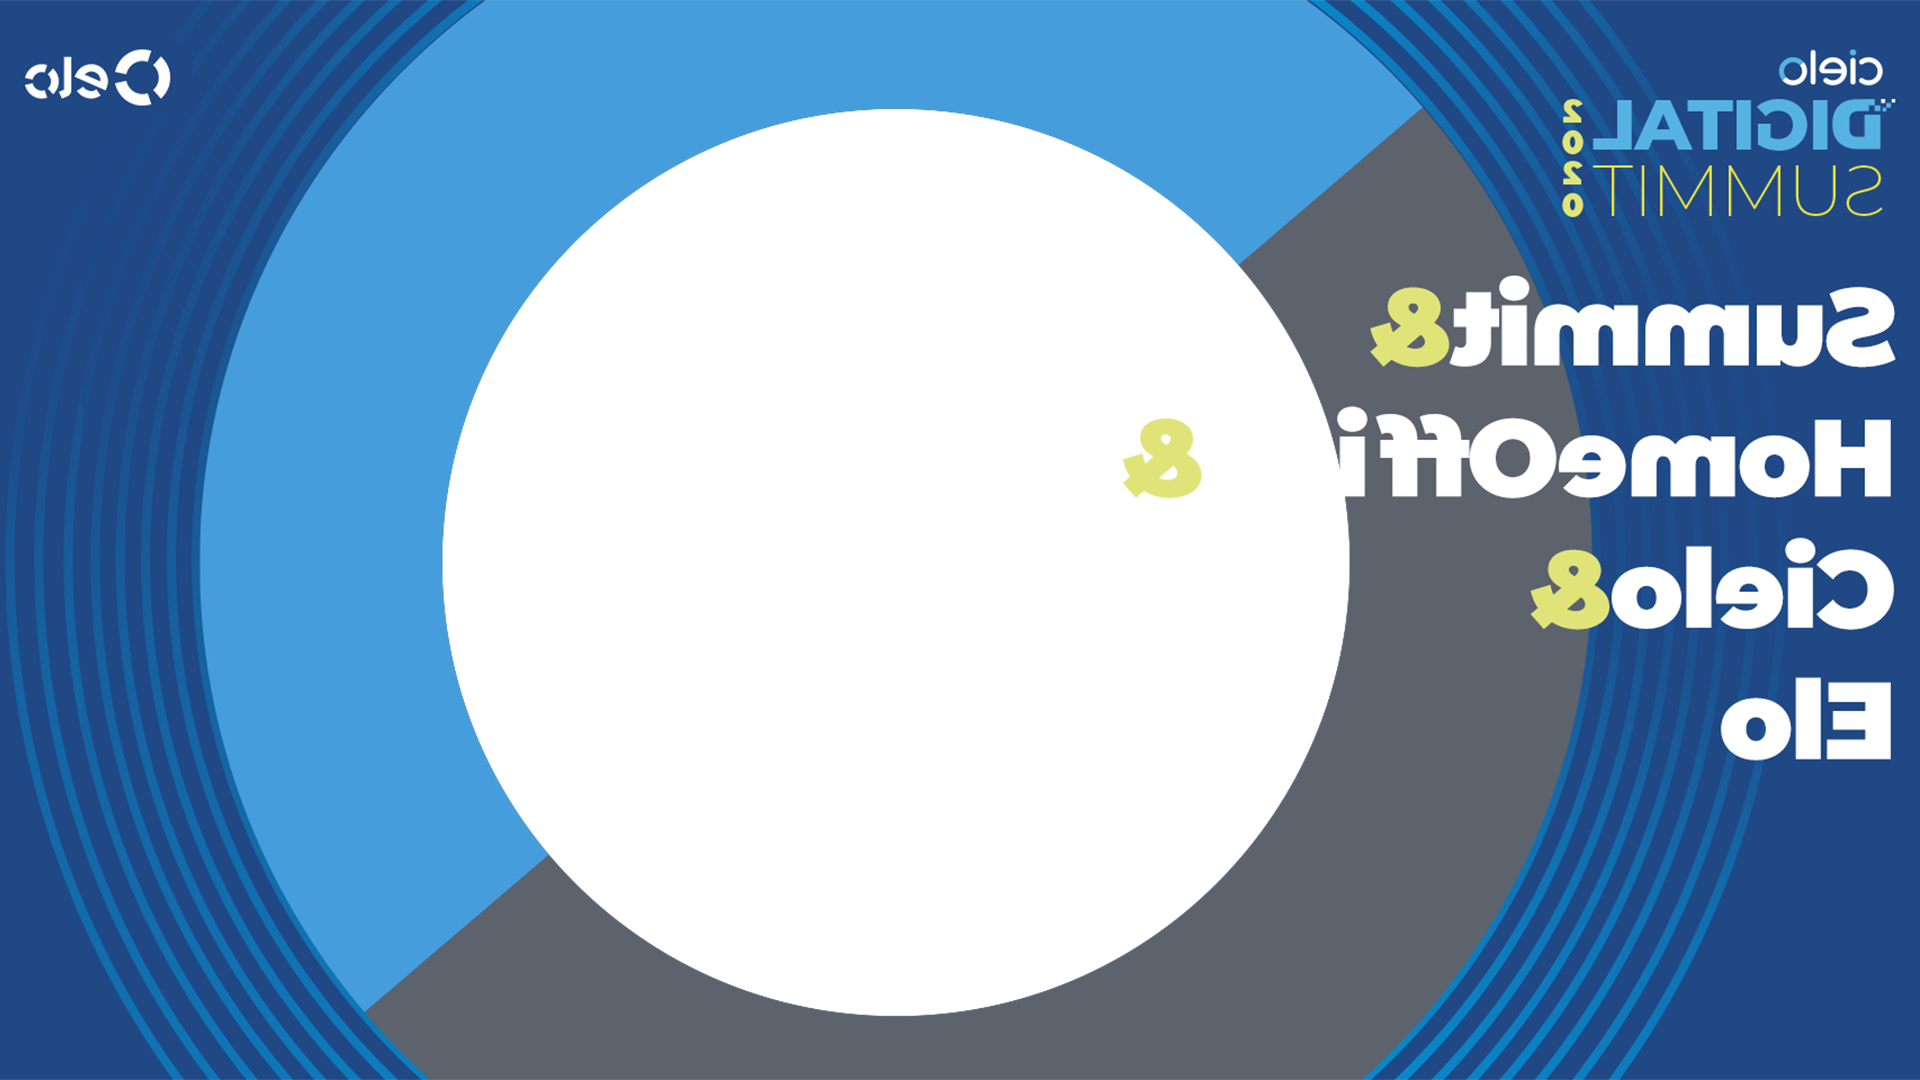
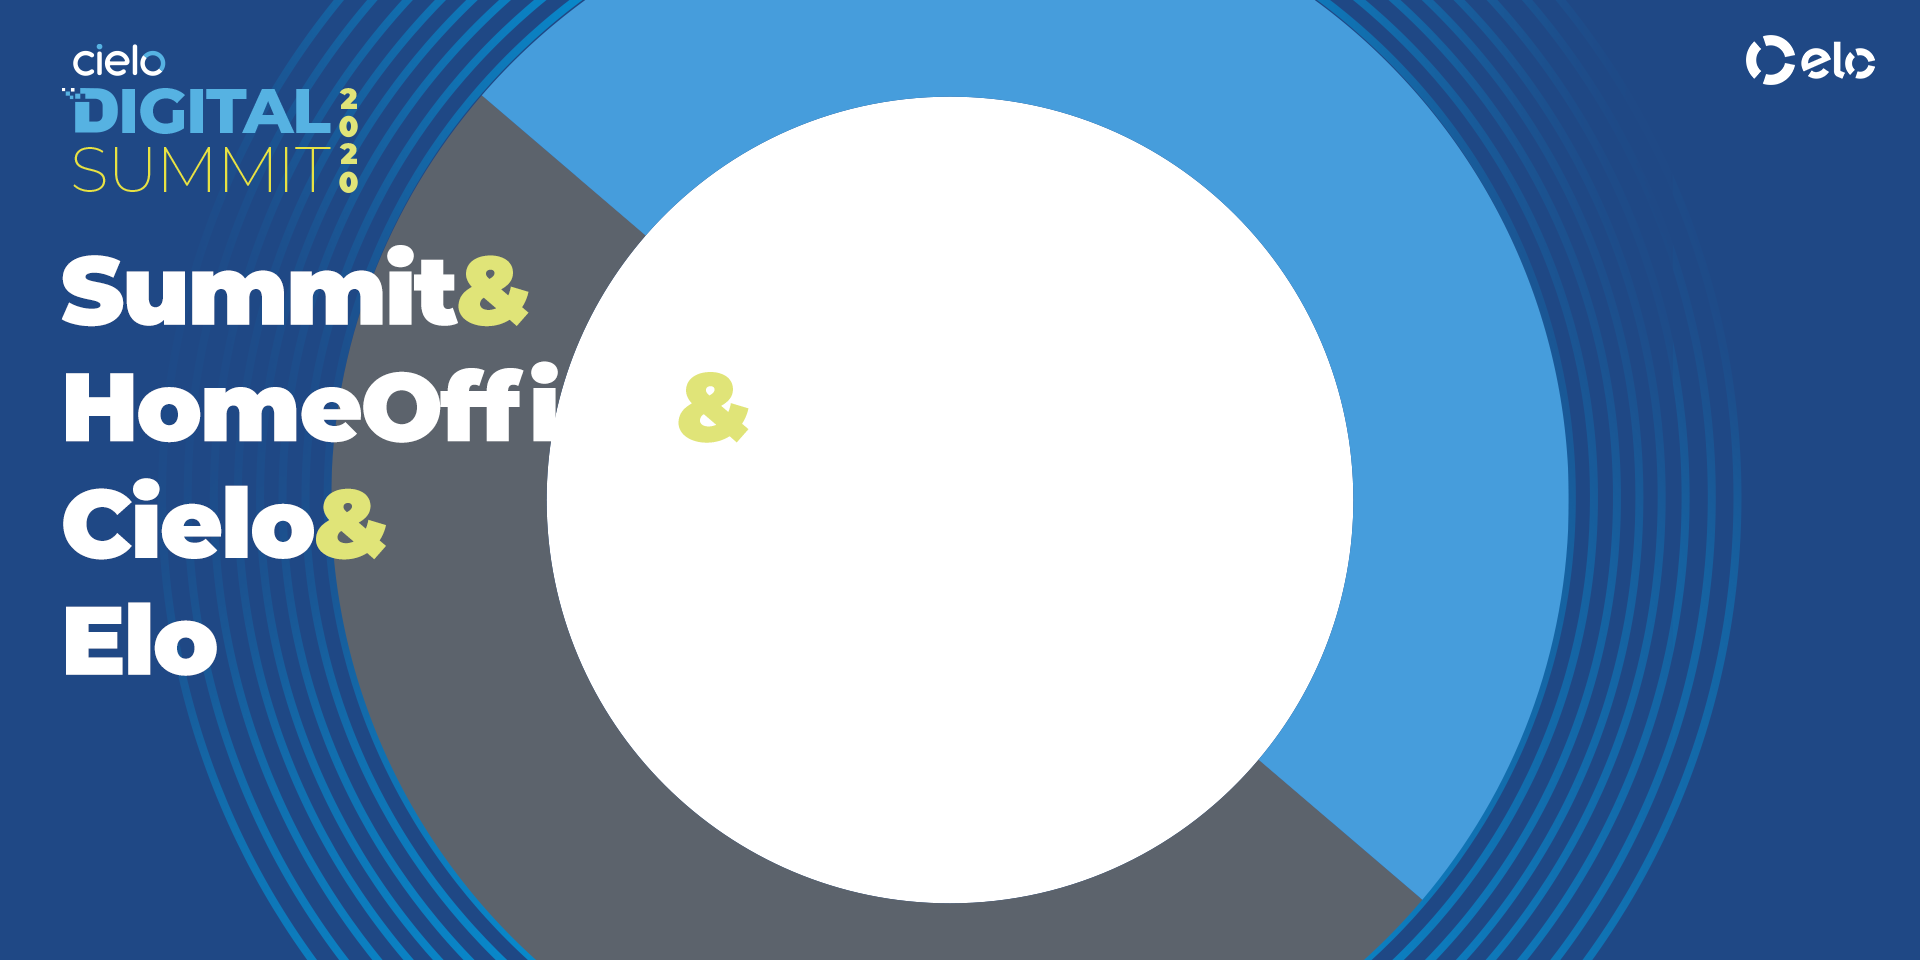
LG

diff --git a/demo.js b/demo.js
@@ -50,7 +50,7 @@ function init_threeScene(spec) {
   secondOverlay.visible = false;
   threeStuffs.scene.add(secondOverlay);
 
-  const baseOverlay = new THREE.Mesh(threeStuffs.videoMesh.geometry, create_mat2d(new THREE.TextureLoader().load('./images/template_foto_1OK.png'), true));
+  const baseOverlay = new THREE.Mesh(threeStuffs.videoMesh.geometry, create_mat2d(new THREE.TextureLoader().load('./images/template_foto_1.png'), true));
   baseOverlay.visible = false;
   threeStuffs.scene.add(baseOverlay);
 
